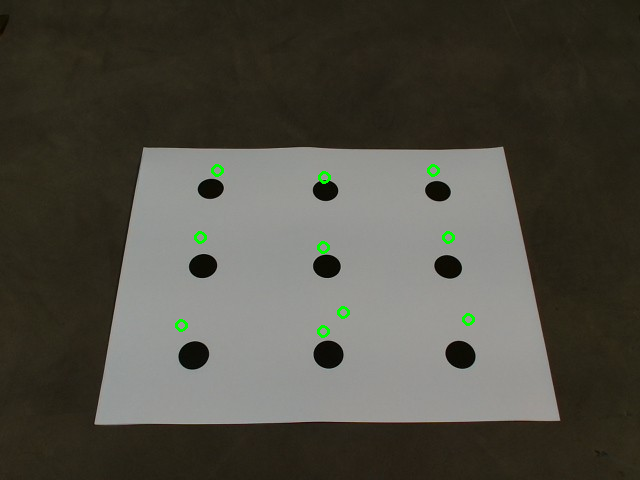
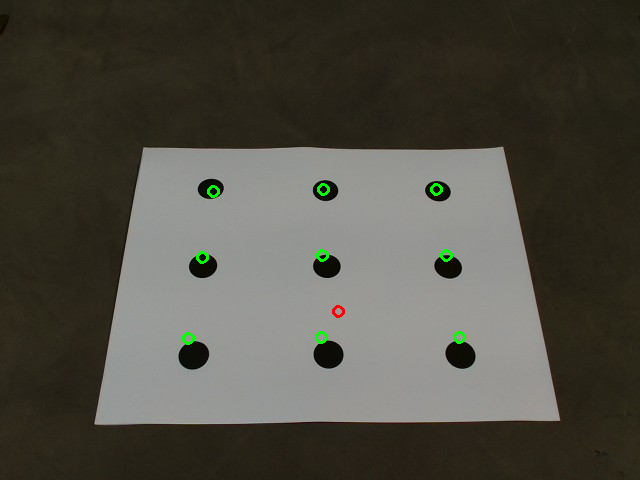
Created DotPose.py to use the patterns of HeadPose on our 9-dot pattern.

diff --git a/source/DotPose.py b/source/DotPose.py
@@ -1,0 +1,85 @@
+# This is a copy of HeadPose.py modified to use
+# the 9-dot pattern instead of the head pose.
+
+import cv2
+import numpy as np
+import argparse  # PY
+
+ap = argparse.ArgumentParser()
+ap.add_argument("--image_dir", type=str)
+args = vars(ap.parse_args())
+
+# Read Image
+image_dir = args["image_dir"]
+image_filename = "NineDotTemplate.jpg"
+image_full_path = image_dir + image_filename
+image = cv2.imread(image_full_path)
+if image is None:
+    print('File not found ' + image_filename)
+    sys.exit()
+
+size = image.shape
+
+##!! NOTE: you need at least 4 points or solvePnP throws an exception.
+# We'll choose dots 1, 3, 7, 9
+# 2D image points. If you change the image, you need to change vector
+image_points = np.array([
+    (320, 240),  # center of 640x480 image
+    (210, 188),  # upper left dot
+    (438, 189), # upper right
+    (193, 353), # lower left
+    (461, 355) # lower right
+], dtype="double")
+
+# 3D model points.
+model_points = np.array([
+    (0.0, 0.0, 0.0),  # center
+    (-9.5, 11.0, 0),  # upper left dot
+    (7.5, 11.0, 0), # upper right
+    (-9.5, -1.9, 0), # lower left
+    (7.5, -1.9, 0) # lower right
+])
+
+# Camera internals
+
+focal_length = size[1]
+center = (size[1] / 2, size[0] / 2)
+camera_matrix = np.array(
+    [[focal_length, 0, center[0]],
+     [0, focal_length, center[1]],
+     [0, 0, 1]], dtype="double"
+)
+
+print("Camera Matrix :\n {0}".format(camera_matrix))
+
+dist_coeffs = np.zeros((4, 1))  # Assuming no lens distortion
+(success, rotation_vector, translation_vector) = cv2.solvePnP(model_points, image_points, camera_matrix,
+                                                              dist_coeffs)  ##PY, flags=cv2.CV_ITERATIVE)
+
+print("solvePnP return " + str(success))
+print("Rotation Vector:\n {0}".format(rotation_vector))
+print("Translation Vector:\n {0}".format(translation_vector))
+
+# Project the 3D point of the dot on the upper left onto the image plane.
+# Draw a line from the image center to this point.
+# Now add a world point approximately half-way between dots 4 and 7.
+# (-9.5, 3.3, 0)
+
+(dots_2D, jacobian) = cv2.projectPoints(np.array([(-9.5, 11.0, 0), (-9.5, 4.6, 0)]), rotation_vector,
+                                                 translation_vector, camera_matrix, dist_coeffs)
+
+##!! Note - he does not *project* the center point, he just takes it from
+# the image points.
+for p in image_points:
+    cv2.circle(image, (int(p[0]), int(p[1])), 3, (0, 0, 255), -1)
+
+center = (int(image_points[0][0]), int(image_points[0][1]))
+upper_left_dot = (int(dots_2D[0][0][0]), int(dots_2D[0][0][1]))
+cv2.line(image, center, upper_left_dot, (255, 0, 0), 2)
+
+left_column_dot = (int(dots_2D[1][0][0]), int(dots_2D[1][0][1]))
+cv2.line(image, center, left_column_dot, (255, 0, 0), 2)
+
+# Display image
+cv2.imshow("Output", image)
+cv2.waitKey(0)

diff --git a/source/initial_perspective_calibration.py b/source/initial_perspective_calibration.py
@@ -40,29 +40,30 @@ dist=np.load(save_dir + 'dist.npy')
 
 #MANUALLY INPUT YOUR MEASURED POINTS HERE
 # world center + 9 world points
-## PY center of one gray tile: 29x 29y cm
-##PY our world points come from the measurement of the x and y coordinates
-# in cm of each of the 9 circles in the patter.
+## PY follow HeadPose and set the world center (0, 0, 0)
+# to be the center of a gray tile at 29x29 cm from the top
+# left. Our world points come from the measurement of the
+# x and y Cartesian coordinates from (0, 0, 0) for each of
+# the 9 circles in the pattern. For the image coordinates
+# choose 320, 240 as the center point - although this does
+# *not* have to be the case.
 total_points_used=10
-X_center=29.0
-Y_center=29.0
-Z_center=48.0
-worldPoints=np.array([[X_center,Y_center,Z_center],
-                       [19.4, 17.8, 57.0],
-                       [27.8, 15.0, 56.0],
-                       [36.4, 18.0, 56.5],
-                       [19.4, 24.7, 52.5],
-                       [27.8, 24.5, 51.5],
-                       [36.3, 24.6, 52.0],
-                       [19.4, 30.9, 48.0],
-                       [27.8, 31.0, 47.4],
-                       [36.3, 31.1, 48.0]], dtype=np.float32)
+worldPoints=np.array([[0.0, 0.0, 0.0],
+                       [-9.5, 11.0, 0],
+                       [-1.1, 11.0,0],
+                       [7.5, 11.0, 0],
+                       [-9.5, 4.6, 0],
+                       [-1.1, 4.6, 0],
+                       [7.5, 4.6, 0],
+                       [-9.5, -1.9, 0],
+                       [-1.1, -1.9, 0],
+                       [7.5, -1.9, 0]], dtype=np.float32)
 
 #MANUALLY INPUT THE DETECTED IMAGE COORDINATES HERE
 ##PY these come measuring the center point of each dot
 # in the 9-dot template in Gimp.
 #[u,v] center + 9 Image points
-imagePoints=np.array([[cx,cy],
+imagePoints=np.array([[320, 240],
                       [210, 188],  # undistorted [216, 202]
                       [325, 190],  # undistorted [325, 205]
                       [438, 189],  # undistorted [432, 204]
@@ -117,7 +118,7 @@ undistorted = cv2.undistort(image, cam_mtx, dist, None, newcameramtx)
 cv2.imwrite(image_dir + 'undistorted.png', undistorted)
 
 print("solvePNP")
-ret, rvec1, tvec1 = cv2.solvePnP(worldPoints, imagePoints, newcameramtx, dist)
+ret, rvec1, tvec1 = cv2.solvePnP(worldPoints, imagePoints, cam_mtx, dist)
 
 print("pnp return value: " + str(ret))
 print("pnp rvec1: rotation " + str(rvec1))
@@ -133,10 +134,44 @@ for i in range(len(worldPoints)):
 
 print("total error: {}".format(mean_error / len(worldPoints)))
 
-# Draw the center and all 9 dots at their 2D positions.
+print("R - rodrigues vecs")
+R_mtx, jac=cv2.Rodrigues(rvec1)
+
+print("R|t - Extrinsic Matrix")
+Rt=np.column_stack((R_mtx,tvec1))
+
+print("newCamMtx*R|t - Projection Matrix")
+P_mtx=newcameramtx.dot(Rt)
+
+s_arr=np.array([0], dtype=np.float32)
+for i in range(0,1):
+    print("=======POINT # " + str(i) +" =========================")
+    print("Forward: From World Points, Find Image Pixel")
+    XYZ1=np.array([[worldPoints[i,0],worldPoints[i,1],worldPoints[i,2],1]], dtype=np.float32)
+    XYZ1=XYZ1.T
+    print("{{-- XYZ1")
+    print(XYZ1)
+    suv1=P_mtx.dot(XYZ1)
+    print("//-- suv1")
+    print(suv1)
+    s=suv1[2,0]
+    uv1=suv1/s
+    print(">==> uv1 - Image Points")
+    print(uv1)
+    print(">==> s - Scaling Factor")
+    print(s)
+    s_arr=np.array([s/total_points_used+s_arr[0]], dtype=np.float32)
+    #s_describe[i]=s
+
+# Project world points to image points.
 projected_image_points, _ = cv2.projectPoints(worldPoints, rvec1, tvec1, cam_mtx, dist)
-for p in projected_image_points:
-    cv2.circle(image, (int(p[0][0]), int(p[0][1])), 5, (0, 255, 0), 2)
+
+# Draw the center at its 2D position in red.
+cv2.circle(image, (int(projected_image_points[0][0][0]), int(projected_image_points[0][0][1])), 5, (0, 0, 255), 2)
+
+# Draw the 9 dots at their 2D positions in green.
+for i in range(1, len(worldPoints)):
+    cv2.circle(image, (int(projected_image_points[i][0][0]), int(projected_image_points[i][0][1])), 5, (0, 255, 0), 2)
 
 cv2.imwrite(image_dir + '2D_positions.png', image)
 

diff --git a/source/HeadPose.py b/source/HeadPose.py
@@ -33,10 +33,10 @@ image_points = np.array([
 model_points = np.array([
                             (0.0, 0.0, 0.0),             # Nose tip
                             (0.0, -330.0, -65.0),        # Chin
-                            (-225.0, 170.0, -135.0),     # Left eye left corner
-                            (225.0, 170.0, -135.0),      # Right eye right corne
-                            (-150.0, -150.0, -125.0),    # Left Mouth corner
-                            (150.0, -150.0, -125.0)      # Right mouth corner
+                            (-225.0, 170.0, -135.0),     # Right eye right corner
+                            (225.0, 170.0, -135.0),      # Left eye left corner
+                            (-150.0, -150.0, -125.0),    # Right Mouth corner
+                            (150.0, -150.0, -125.0)      # Left mouth corner
  
                         ])
  
@@ -58,11 +58,13 @@ dist_coeffs = np.zeros((4,1)) # Assuming no lens distortion
 print("Rotation Vector:\n {0}".format(rotation_vector))
 print("Translation Vector:\n {0}".format(translation_vector))
  
-# Project a 3D point (0, 0, 1000.0) onto the image plane.
+# Project the 3D point of the corner of the right eye onto the image plane.
 # We use this to draw a line sticking out of the nose
  
-(nose_end_point2D, jacobian) = cv2.projectPoints(np.array([(0.0, 0.0, 1000.0)]), rotation_vector, translation_vector, camera_matrix, dist_coeffs)
- 
+(nose_end_point2D, jacobian) = cv2.projectPoints(np.array([(-225.0, 170.0, -135.0)]), rotation_vector, translation_vector, camera_matrix, dist_coeffs)
+
+ ##!! Note - he does not *project* the center point, he just takes it from
+ # the image points.
 for p in image_points:
     cv2.circle(image, (int(p[0]), int(p[1])), 3, (0,0,255), -1)
  